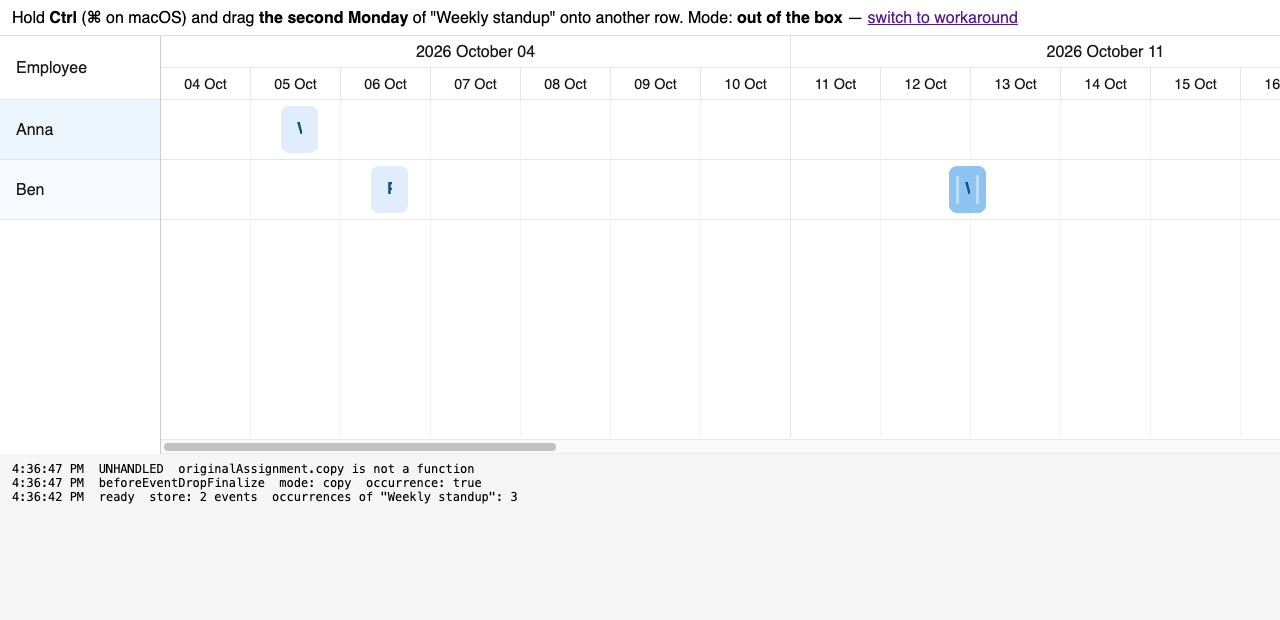
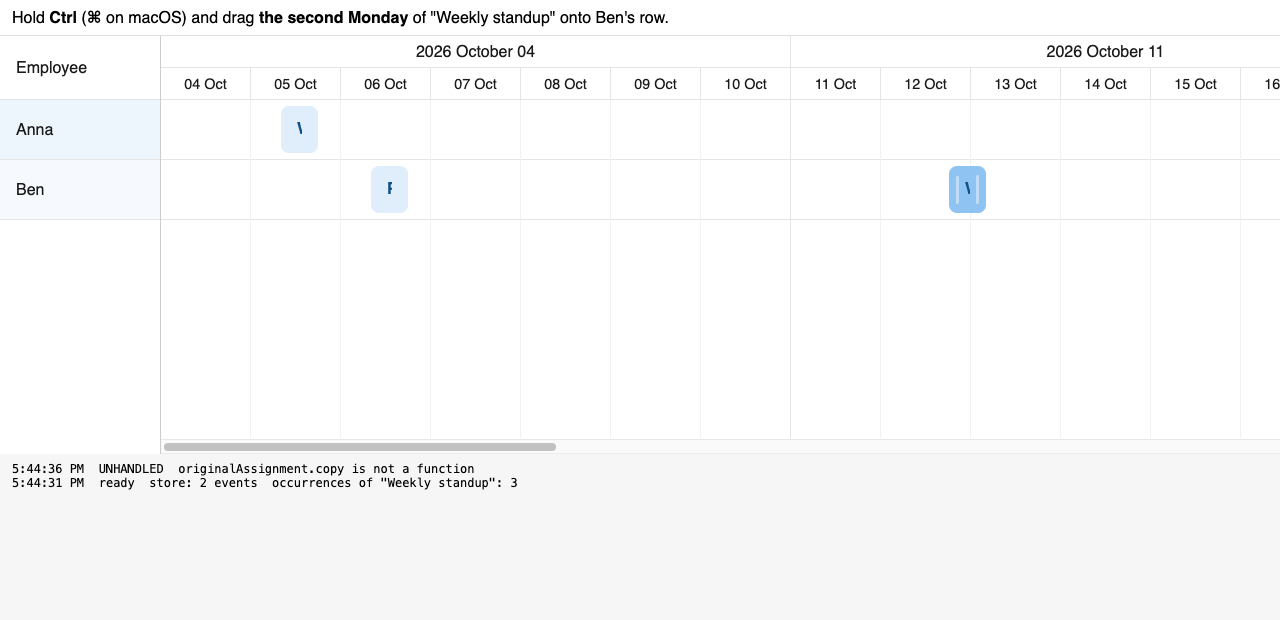
Strip the workaround: keep the repro to the bug only

Changed region(s): [[0.0, 0.7355, 0.4062, 0.8274], [0.4688, 0.0, 0.6562, 0.0613], [0.6875, 0.0, 0.7812, 0.0613]]

diff --git a/main.js b/main.js
@@ -1,17 +1,9 @@
 import { SchedulerPro } from '@bryntum/schedulerpro';
 
-// Toggle with ?workaround in the URL
-const useWorkaround = new URLSearchParams(location.search).has('workaround');
-
 const logElement = document.getElementById('log');
 const log = message => {
     logElement.textContent = `${new Date().toLocaleTimeString()}  ${message}\n` + logElement.textContent;
 };
-
-document.getElementById('mode').textContent = useWorkaround ? 'with workaround' : 'out of the box';
-const toggle = document.getElementById('toggle');
-toggle.textContent = useWorkaround ? 'switch to out of the box' : 'switch to workaround';
-toggle.href = useWorkaround ? '?' : '?workaround';
 
 // The thrown TypeError does not reach any listener, so it is caught at the window
 window.addEventListener('error', ({ message }) => log(`UNCAUGHT  ${message}`));
@@ -19,34 +11,6 @@ window.addEventListener('unhandledrejection', ({ reason }) => log(`UNHANDLED  ${
 
 const MONDAY = new Date(2026, 9, 5);
 const at = (dayOffset, hour) => new Date(MONDAY.getFullYear(), MONDAY.getMonth(), MONDAY.getDate() + dayOffset, hour);
-
-const isCopy = eventDrag => eventDrag.mode === 'copy';
-
-/**
- * What we do today to copy one occurrence. Both halves reach past the documented surface, which is what the forum
- * post asks about.
- */
-const occurrenceCopyWorkaround = {
-    async updateRecordsFn(dragData) {
-        const { eventRecords, eventBarEls, startDate, endDate, newResource } = dragData;
-        const [eventRecord] = eventRecords;
-        if (!eventRecord?.isOccurrence || !isCopy(this)) {
-            await this.updateRecords(dragData);
-            return;
-        }
-        // An occurrence is in no store, so the copy is built from the event record (not its assignment) and stripped
-        // of the rule, otherwise it would paste a second series.
-        const [copy] = this.client.eventStore.add(eventRecord.copy({ recurrenceRule : null, exceptionDates : null }));
-        copy.set({ startDate, endDate, resourceId : newResource?.id ?? eventRecord.resourceId });
-        // Question 2: the drag moved the original's own bar by inline style, so the redraw finds a config equal to the
-        // cached one and skips it, leaving the original drawn on the target row. Dropping the private per-element
-        // cache is the only way we found to force it back.
-        eventBarEls.forEach(eventBarEl => delete eventBarEl.lastDomConfig);
-        this.client.refreshRows();
-        await this.client.project.commitAsync();
-        log(`workaround  copy added, store now ${this.client.eventStore.count} events`);
-    }
-};
 
 const scheduler = new SchedulerPro({
     appendTo   : 'container',
@@ -57,12 +21,11 @@ const scheduler = new SchedulerPro({
     barMargin  : 6,
 
     // `single` answers the recurrence confirmation without showing it, so the drop runs in one gesture. The popup
-    // reaches the same code path: the stack below goes through RecurrenceConfirmationPopup either way.
+    // reaches the same code path: the stack goes through RecurrenceConfirmationPopup either way.
     enableRecurringEvents : { defaultAction : 'single' },
 
     features : {
-        eventDrag      : { copyKey : 'CTRL', ...(useWorkaround ? occurrenceCopyWorkaround : {}) },
-        eventCopyPaste : true
+        eventDrag : { copyKey : 'CTRL' }
     },
 
     columns : [{ text : 'Employee', field : 'name', width : 160 }],
@@ -87,16 +50,6 @@ const scheduler = new SchedulerPro({
     },
 
     listeners : {
-        beforeEventDropFinalize({ source, context }) {
-            const copyingOccurrence = isCopy(source.features.eventDrag) && context.eventRecords.some(record => record.isOccurrence);
-            log(`beforeEventDropFinalize  mode: ${source.features.eventDrag.mode}  occurrence: ${context.eventRecords.some(r => r.isOccurrence)}`);
-            if (useWorkaround && copyingOccurrence) {
-                // Returning false stops Bryntum's recurrence listener without cancelling the drop, so the original
-                // is not detached from its series.
-                return false;
-            }
-        },
-
         eventDrop({ source, eventRecords }) {
             log(`eventDrop  ${eventRecords.map(e => e.name).join(', ')}  store: ${source.eventStore.count} events`);
         },

diff --git a/index.html b/index.html
@@ -14,8 +14,7 @@
 </head>
 <body>
     <header>
-        Hold <b>Ctrl</b> (<b>⌘</b> on macOS) and drag <b>the second Monday</b> of "Weekly standup" onto another row.
-        Mode: <b id="mode"></b> — <a id="toggle" href="#"></a>
+        Hold <b>Ctrl</b> (<b>⌘</b> on macOS) and drag <b>the second Monday</b> of "Weekly standup" onto Ben's row.
     </header>
     <div id="container"></div>
     <pre id="log"></pre>

diff --git a/README.md b/README.md
@@ -1,6 +1,6 @@
-# Copying one occurrence of a recurring event with Ctrl/⌘ + drag
+# Ctrl/⌘ + drag of a recurring event occurrence throws instead of copying
 
-Minimal repro for a question on the Bryntum forum. SchedulerPro 7.3.7, plain JS + Vite.
+Minimal repro for a question on the Bryntum forum. Scheduler Pro 7.3.7, plain JS + Vite.
 
 ## Run
 
@@ -9,7 +9,7 @@ npm install   # needs access to npm.bryntum.com (licensed or trial account)
 npm run dev
 ```
 
-Open the URL Vite prints. `?workaround` in the URL switches the workaround on.
+Open the URL Vite prints.
 
 ## Steps
 
@@ -17,7 +17,7 @@ Open the URL Vite prints. `?workaround` in the URL switches the workaround on.
 2. Press on **the second Monday** of "Weekly standup" (Anna, 12 Oct) and drag it onto Ben's row.
 3. Release.
 
-**Out of the box:** nothing is created and the drop throws.
+Nothing is created and the drop throws:
 
 ```
 TypeError: originalAssignment.copy is not a function
@@ -31,13 +31,9 @@ TypeError: originalAssignment.copy is not a function
 
 The store still holds 2 events, and the original bar is left drawn on the row it was dropped on.
 
-![Out of the box](screenshots/1-out-of-the-box.png)
+![The original bar ends up on Ben's row and the drop throws](screenshots/1-out-of-the-box.png)
 
-**With `?workaround`:** a plain event is added where it was dropped, the series keeps all its dates, and the original is drawn back on its own date.
-
-![With the workaround](screenshots/2-workaround.png)
-
-Same gesture on "Plain shift" (Ben) copies fine in both modes — the failure is specific to an occurrence.
+The same gesture on "Plain shift" (Ben, 6 Oct) copies fine, so the failure is specific to an occurrence.
 
 ## What we think happens
 
@@ -51,26 +47,4 @@ if (copy) {
 
 An occurrence's assignment is synthetic (`isOccurrenceAssignment`), so it has no `copy()`.
 
-`EventCopyPaste` does not go through that path — it copies the **event** (`event.copy(null, true)`), which works on an occurrence. Pasting an occurrence does succeed, but it carries `recurrenceRule` over, so you get a second full series rather than one date.
-
-## Questions
-
-1. **Is there a supported way to copy a single occurrence as a plain event?** We want the series left untouched and one non-recurring event created at the drop point. If there is no supported way today, would you consider it?
-
-2. **How should the original's bar be redrawn?** During a copy the drag moves the original's own element by inline style. Our `updateRecordsFn` skips the native drop, and the following redraw then finds a DOM config equal to the cached one and skips the element, so the original stays drawn on the target row. The only thing we found that works is deleting the private per-element cache:
-
-   ```js
-   eventBarEls.forEach(eventBarEl => delete eventBarEl.lastDomConfig);
-   this.client.refreshRows();
-   ```
-
-   `refreshRows()` / `refresh()` / `refreshWithTransition()` on their own do not bring it back. Is there a public way to tell the renderer an element was moved behind its back?
-
-   It also has to run in the drop's own frame: past an `await` the browser has already painted the bar at the drop point, and the redraw then animates it home instead of snapping, which reads as a refused move.
-
-## The workaround
-
-See `main.js`:
-
-- `beforeEventDropFinalize` returns `false` on a copy of an occurrence, which stops `onRecurrableBeforeEventDropFinalize` without cancelling the drop, so the original is never detached from its series.
-- `updateRecordsFn` builds the copy from the event record with `recurrenceRule` and `exceptionDates` cleared, adds it to the store and places it on the drop's day and row.
+Checked on 7.0.2 and 7.3.7, same error. The call is already there in 6.3.4, so it does not look recent. `changeMode` guards `isRecurring`, which catches the master record but not its occurrences.
